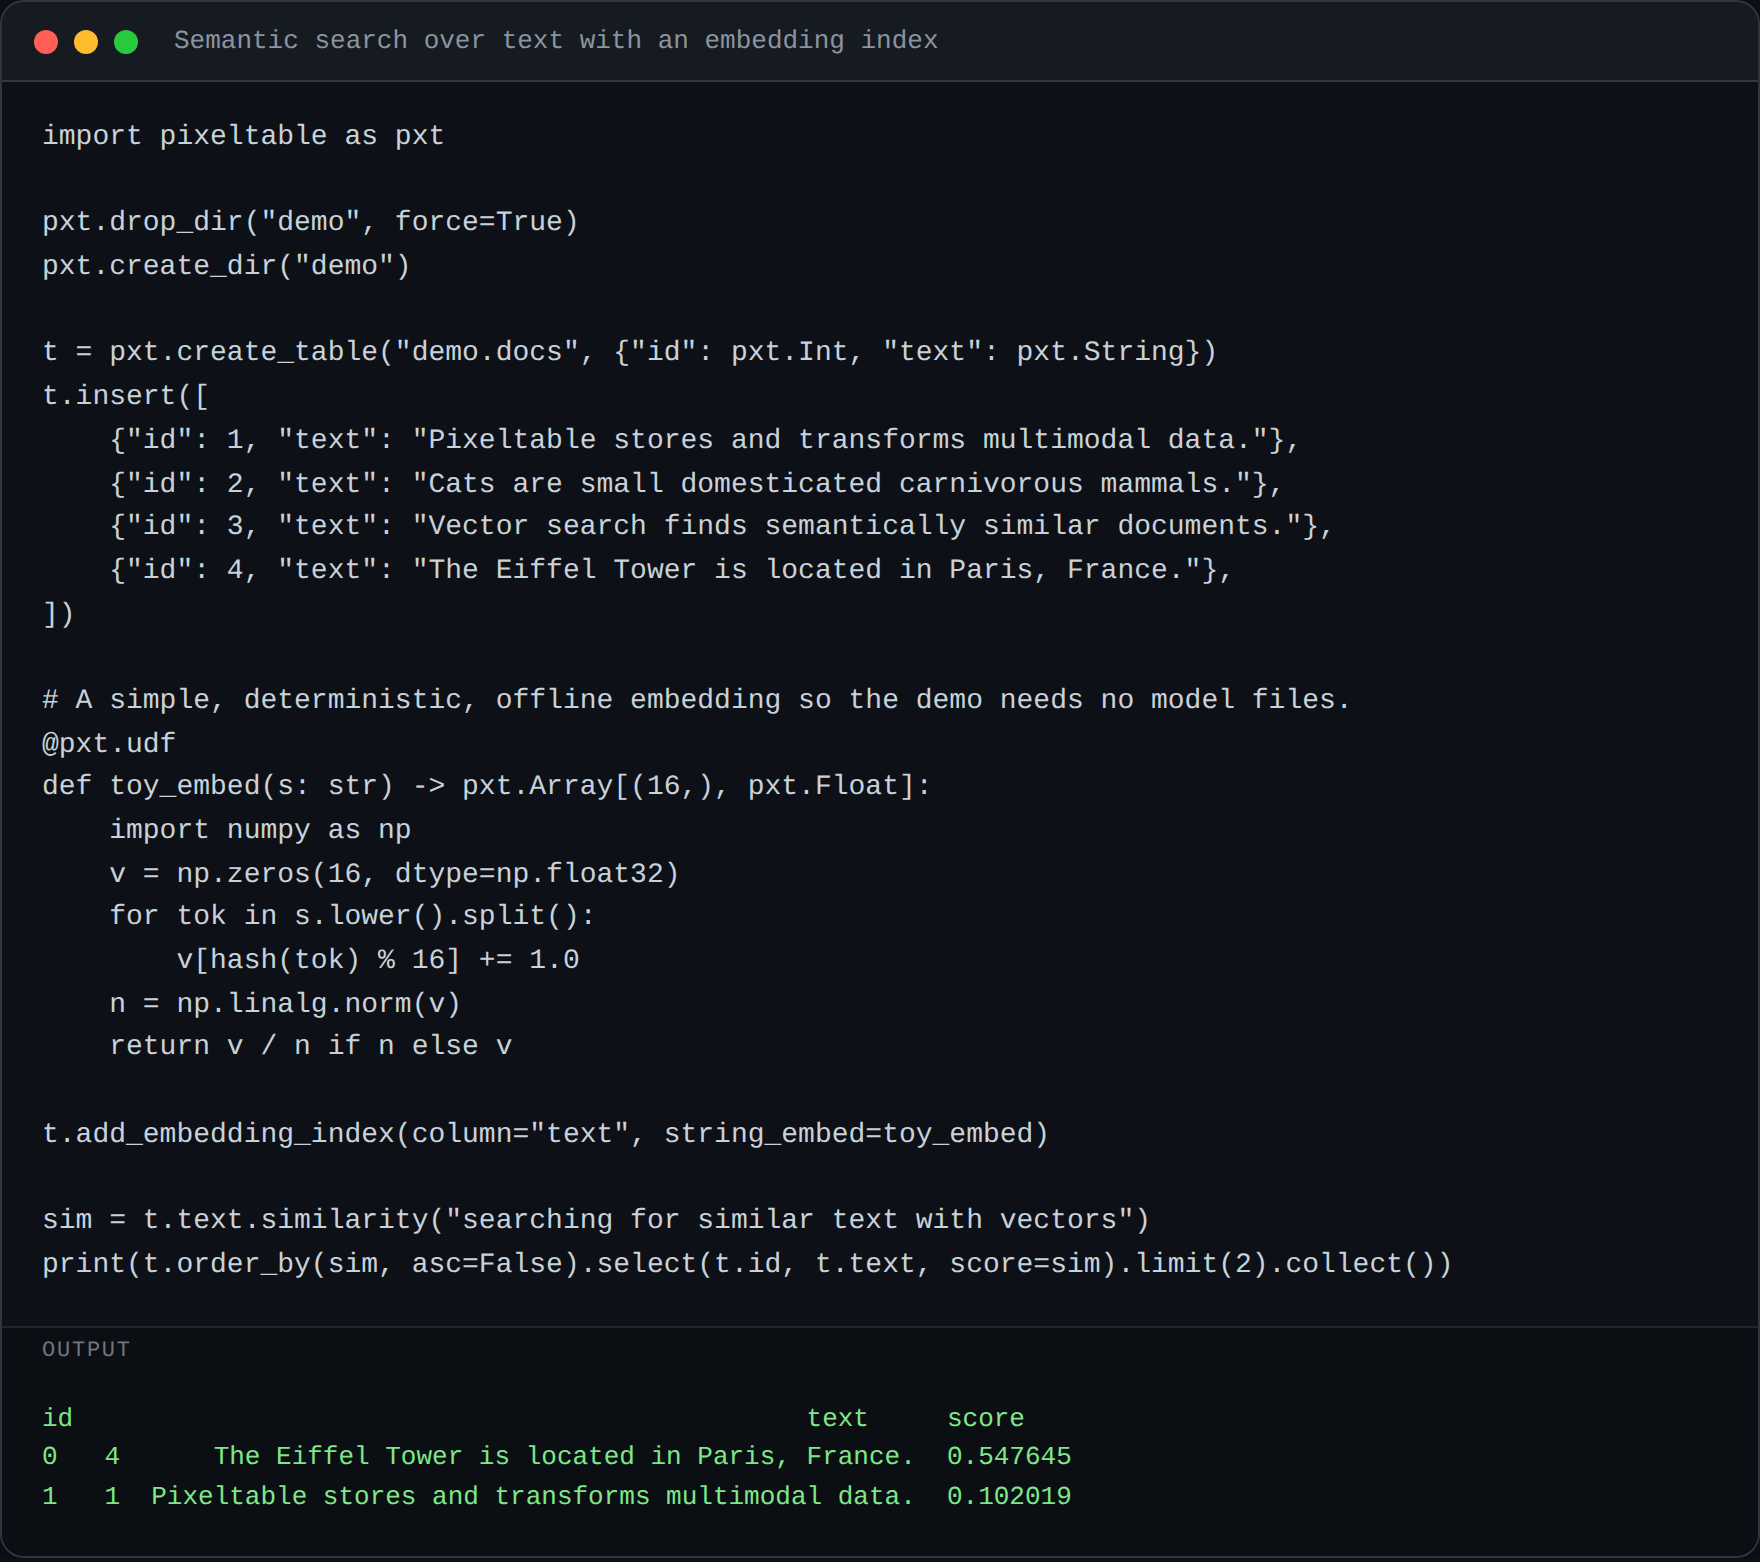
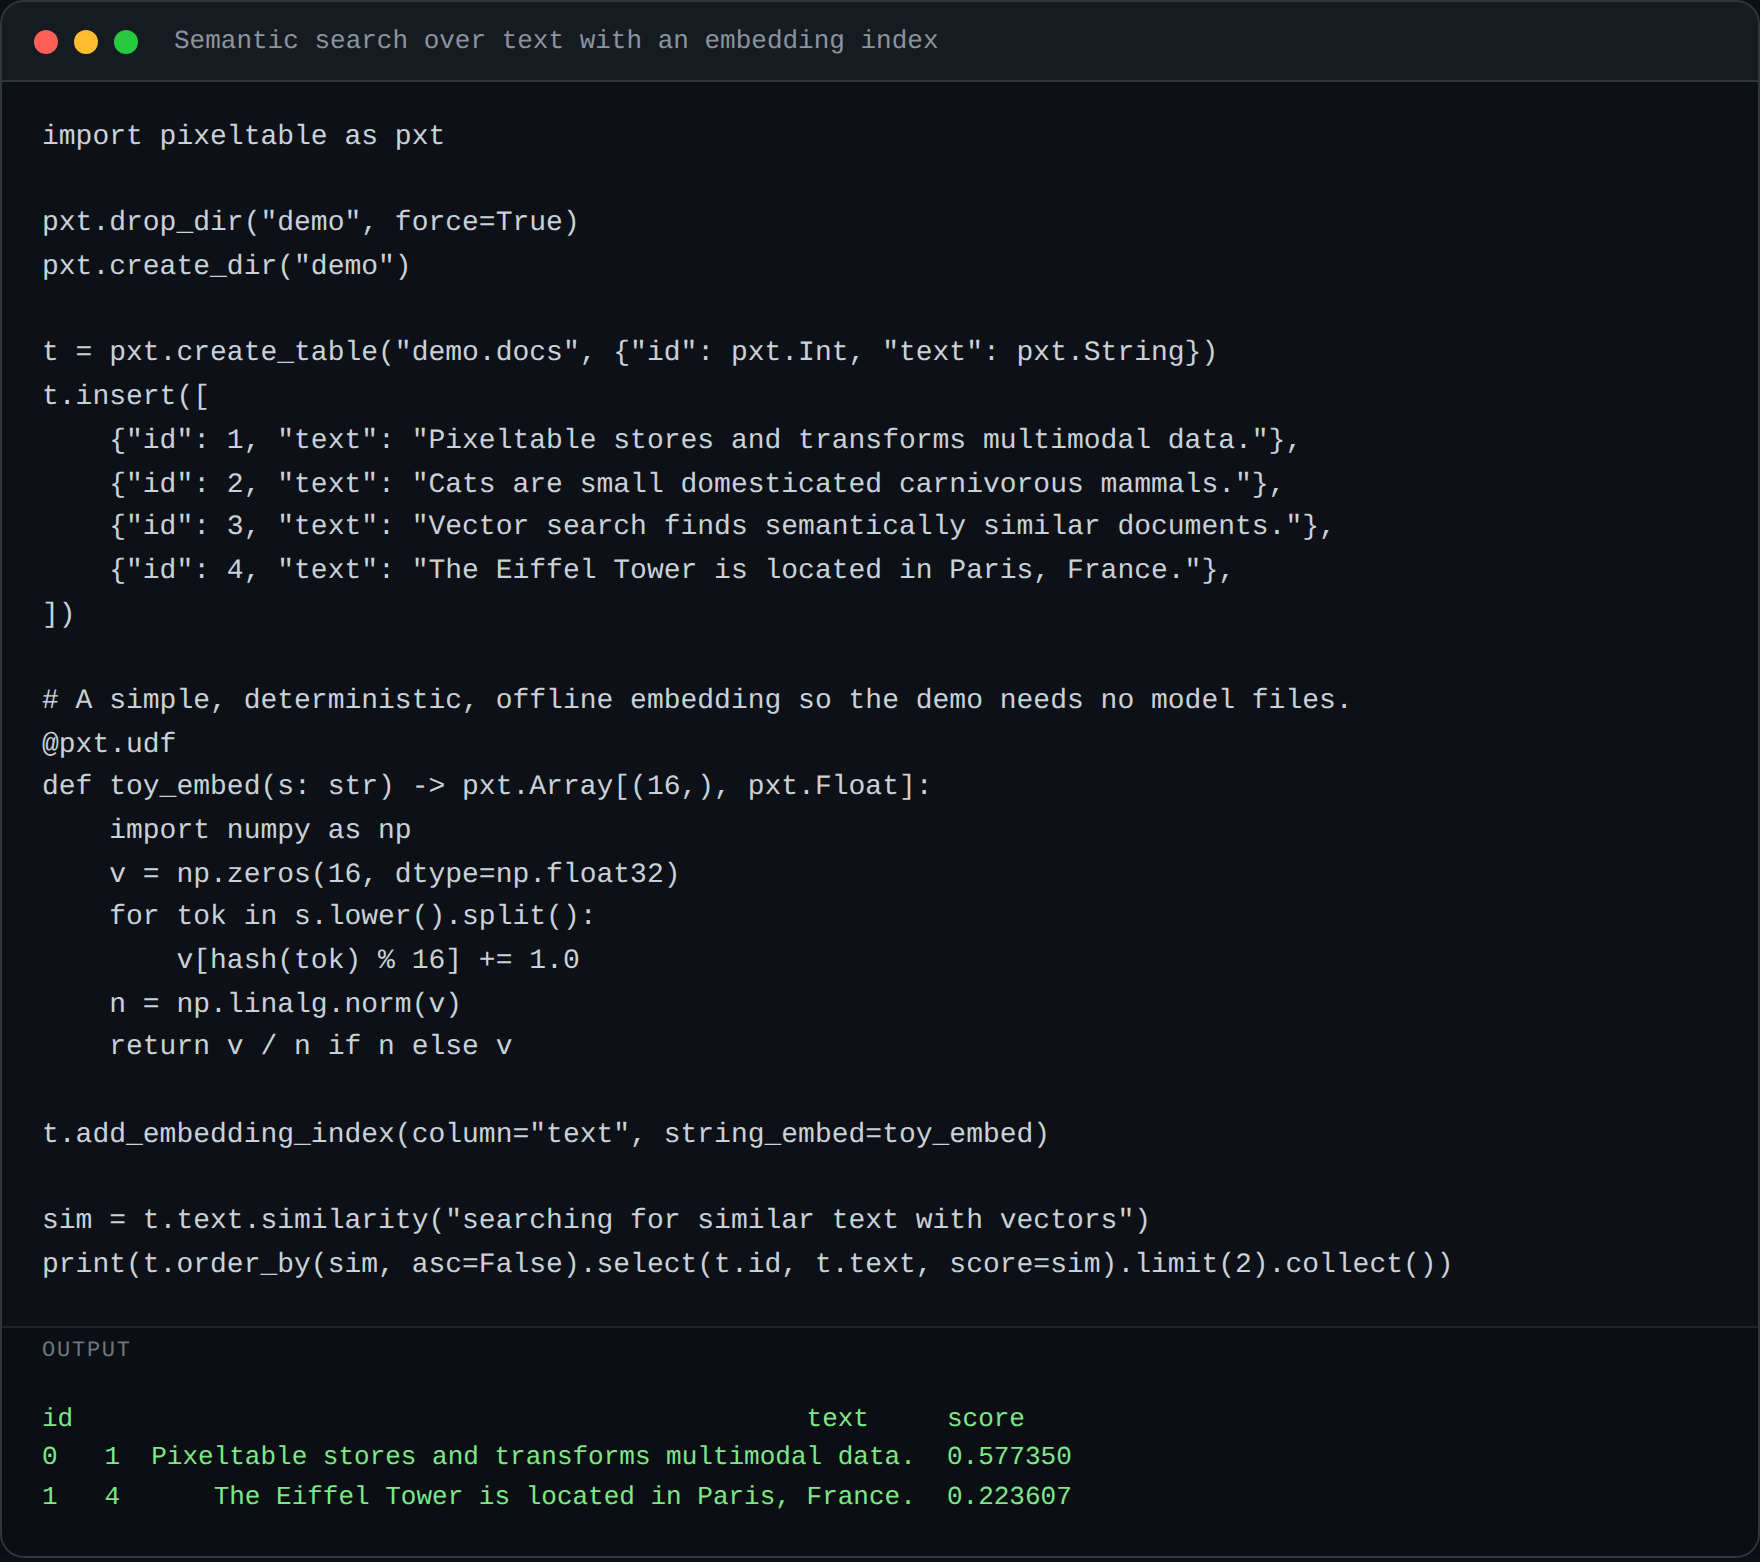
Publish site 2026-06-07T14:00Z

Changed region(s): [[0.0938, 0.9219, 0.5, 0.9834], [0.5625, 0.9219, 0.625, 0.9834]]

diff --git a/posts/code2lora-hypernetwork-generated-adapters-for-code-language-models-under-softwar.html b/posts/code2lora-hypernetwork-generated-adapters-for-code-language-models-under-softwar.html
@@ -34,7 +34,7 @@ hr { border: none; border-top: 1px solid #30363d; margin: 40px 0; }
 <p>Code2LoRA: Hypernetwork-Generated Adapters for Code Language Models under Software Evolution keeps showing up in the feeds I track — and for good reason. The hard
 part is rarely the idea; it's the plumbing: wiring data, transforms, and models
 together without it turning into a pile of glue scripts. Recurring themes around
-this topic: <strong>rag, inference, fine-tuning, engineering, bot, search</strong>.</p>
+this topic: <strong>rag, inference, fine-tuning, engineering, bot, api</strong>.</p>
 <p>This is exactly where <a href="https://github.com/pixeltable/pixeltable" rel="noopener noreferrer">Pixeltable</a>
 earns its keep. It gives you a declarative table where derived values are
 <em>computed columns</em> — define the transform once and it stays in sync as data
@@ -70,11 +70,11 @@ sim = t.text.similarity("searching for similar text with vectors")
 print(t.order_by(sim, asc=False).select(t.id, t.text, score=sim).limit(2).collect())
 </code></pre>
 <p>Run it and you get real output — here's the actual result captured from this
-exact snippet (ran in 6.45s):</p>
+exact snippet (ran in 4.99s):</p>
 <p><img alt="Semantic search over text with an embedding index" src="https://chrisclone.github.io/pixeltable-content-feed/assets/code2lora-hypernetwork-generated-adapters-for-code-language-models-under-softwar/example.png"></p>
 <pre><code>id                                               text     score
-0   4      The Eiffel Tower is located in Paris, France.  0.547645
-1   1  Pixeltable stores and transforms multimodal data.  0.102019
+0   1  Pixeltable stores and transforms multimodal data.  0.577350
+1   4      The Eiffel Tower is located in Paris, France.  0.223607
 </code></pre>
 <p>That's not a mockup. The code above executed against Pixeltable and produced
 that table. Swap the toy pieces (a UDF, a local embedding) for production ones —